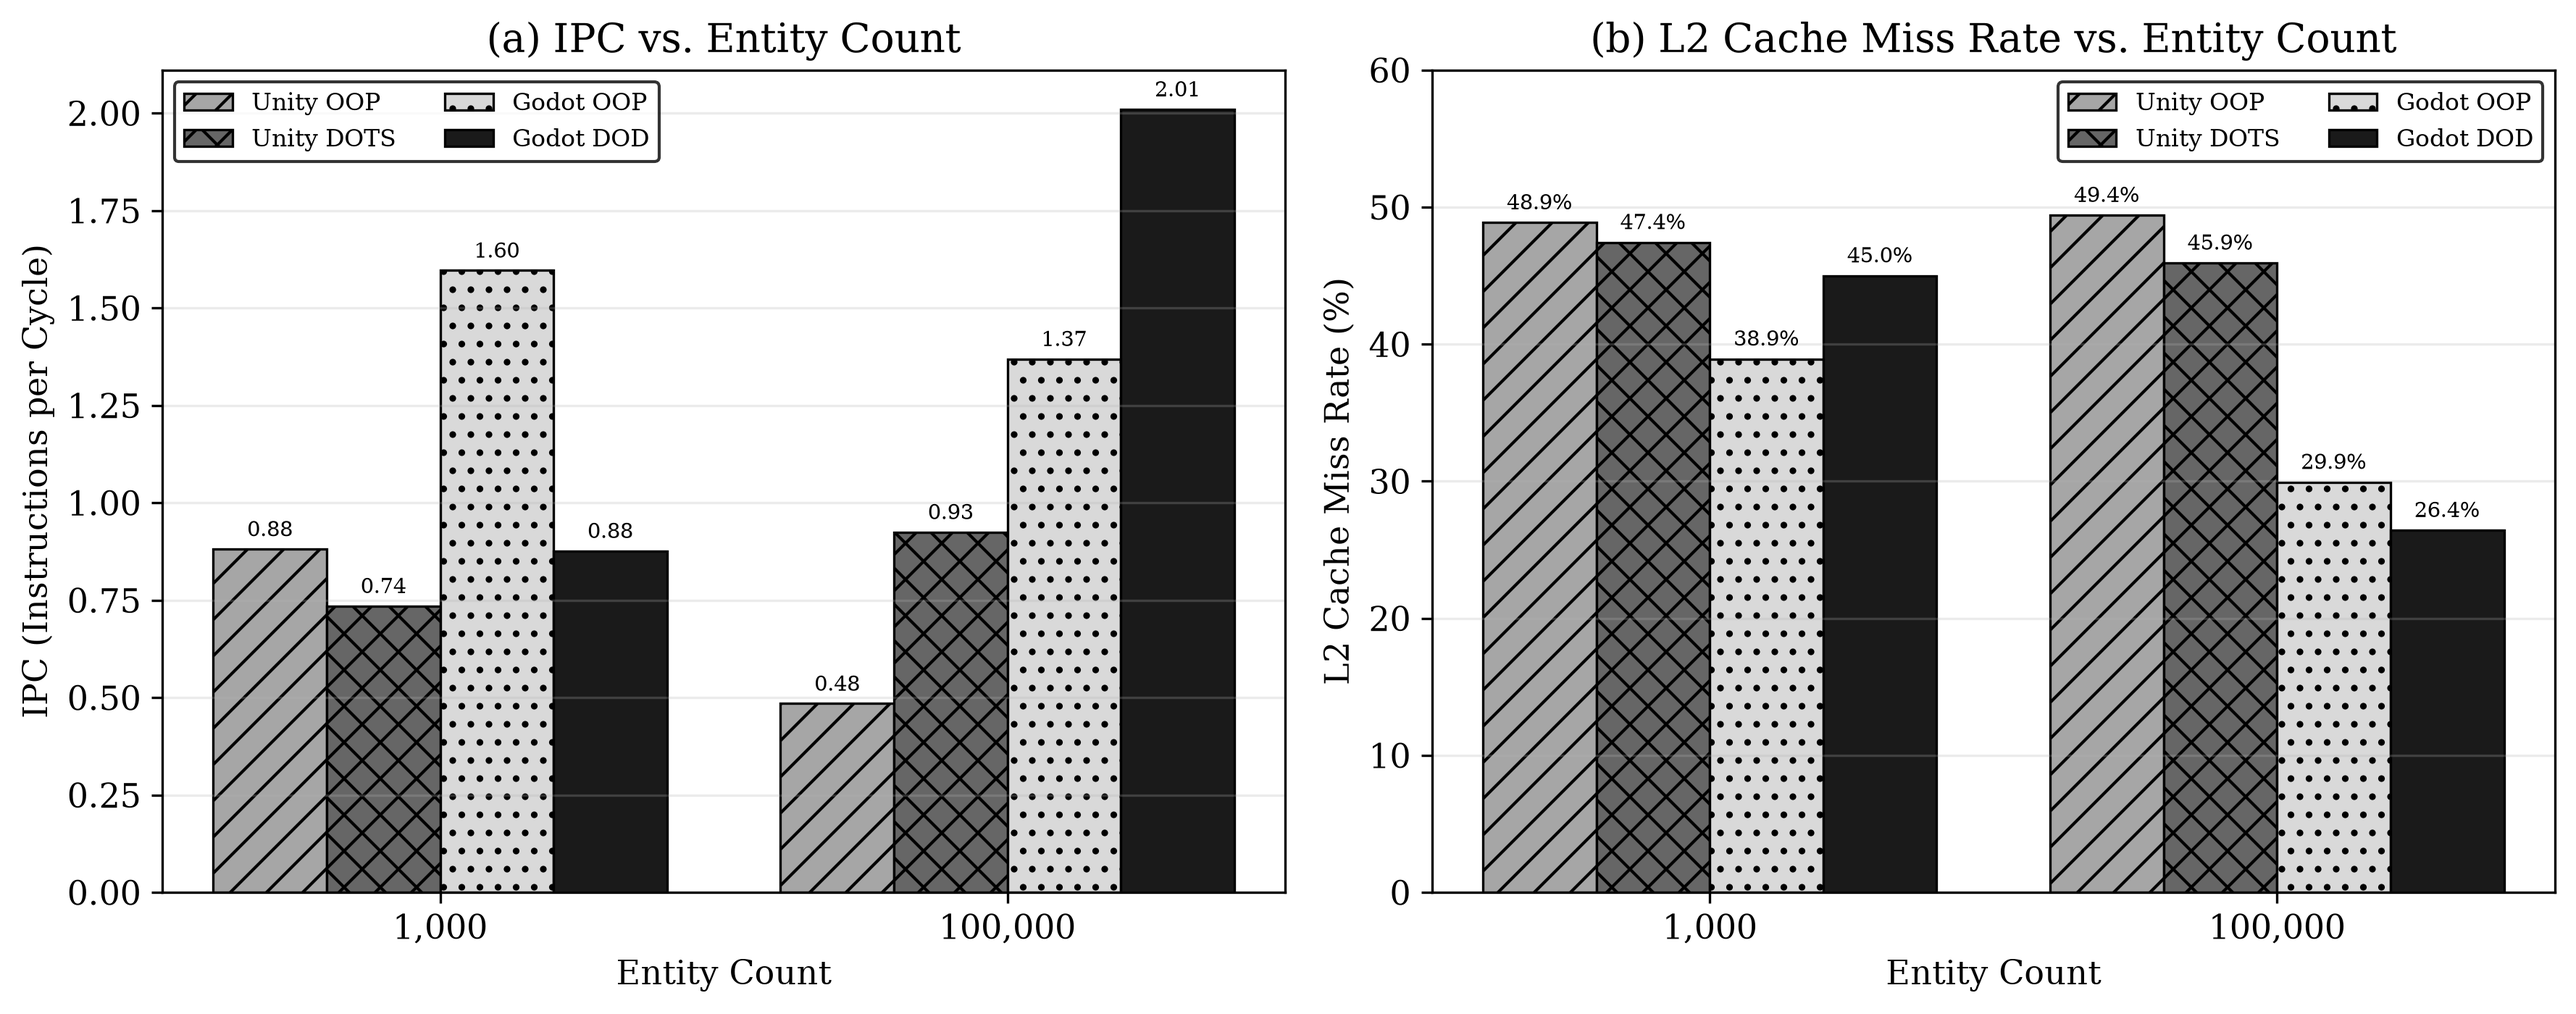
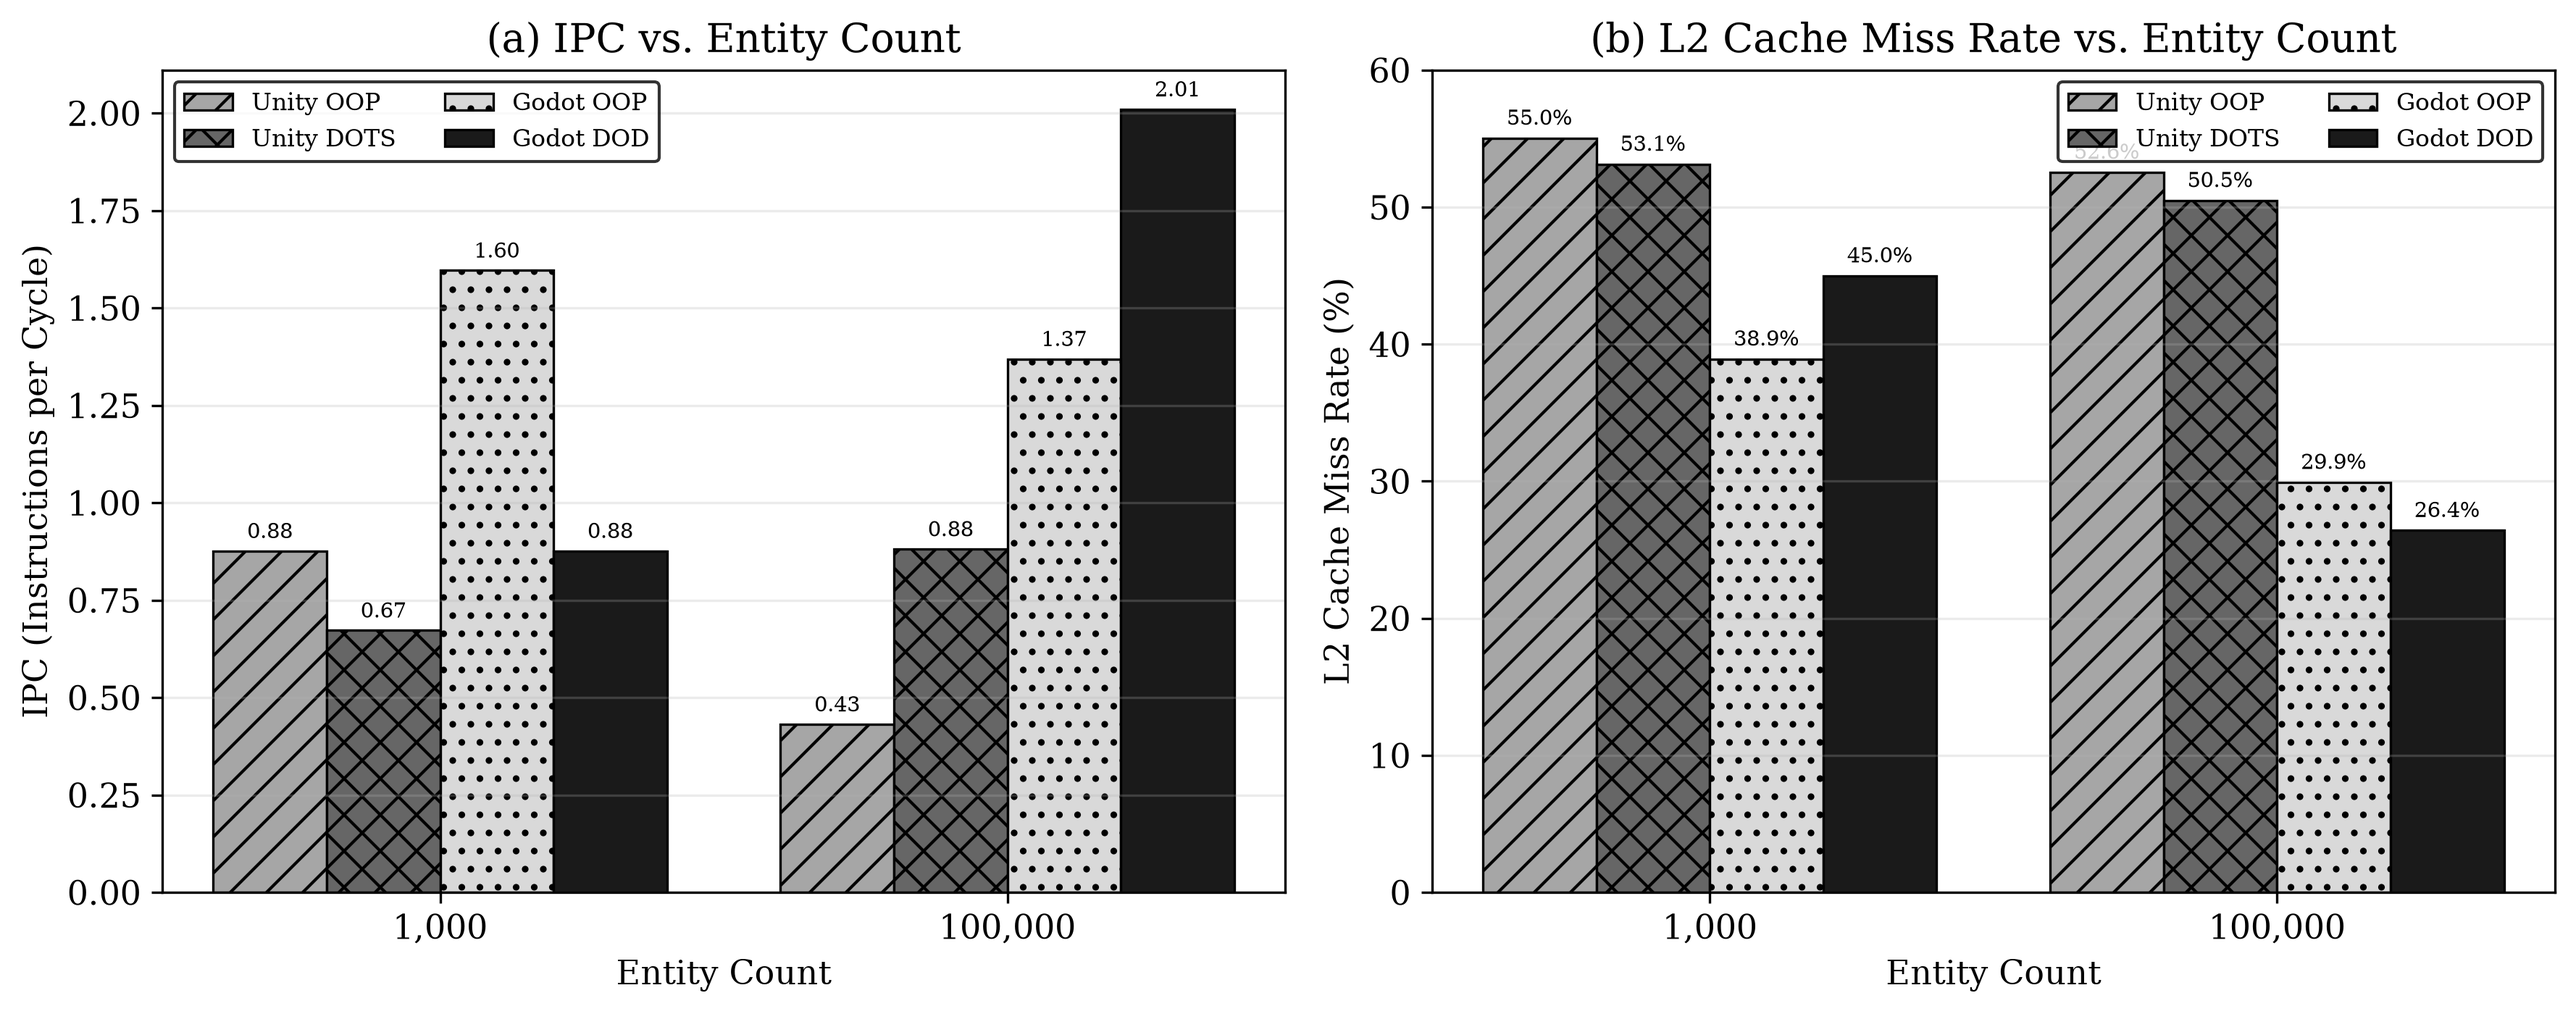
Re-measure Unity cache-miss sessions using Attach-to-Process, removing launch overhead
Replaces the original Unity OOP/DOTS uProf sessions (which included engine
startup time due to launch-based collection) with attach-based re-measurements
(AMDuProfCLI collect -p <PID>), so Unity results are now directly comparable
to Godot without startup-overhead distortion. Updates results table, figure,
and raw CSV accordingly.

Claude-Session: https://claude.ai/code/session_012BTzpM735GCUygYkiBMsKx

diff --git a/paper/MAKALE_NOTLARI.md b/paper/MAKALE_NOTLARI.md
@@ -250,7 +250,13 @@ gösterir.
 > başarıyla tamamlanmıştır (bkz. "Ölçüm Sonuçları"). `AMDuProfCLI.exe collect`
 > ile GUI'ye gerek kalmadan profil toplanmış, `AMDuProfCLI.exe report -i
 > <oturum>` ile "10 HOTTEST PROCESSES" bölümünden süreç-düzeyinde toplu
-> (aggregate) metrikler çıkarılmıştır.
+> (aggregate) metrikler çıkarılmıştır. Unity oturumları için motor başlatma
+> gecikmesini örneklemeden tamamen çıkarmak amacıyla `collect -p <PID>`
+> ("Attach to Process") yöntemi kullanılmıştır: uygulama önce uProf'suz
+> başlatılıp test ekranı gelene kadar beklenmiş, ardından zaten çalışan
+> process'e attach edilerek örnekleme başlatılmış ve hemen test çalıştırılmıştır
+> — böylece motor yükleme/başlatma süresi profile hiç karışmamıştır (Godot
+> zaten hızlı açıldığı için orijinal "launch" yöntemiyle ölçülmüştür).
 
 **Ölçüm Sonuçları (Gerçek Veri — AMD Ryzen 5 5600H, Zen3, AMD uProf 4.2):**
 
@@ -269,43 +275,53 @@ L2 Miss Rate = (LOCAL_CACHE + EXTERNAL_CACHE_LOCAL + LOCAL_DRAM)
 
 | İmplementasyon | N | IPC | L1 DC Miss Ratio | L2 Miss Rate |
 |---|---|---|---|---|
-| Unity OOP   | 1.000   | 0.881 | 5.47% | 48.87% |
-| Unity OOP   | 100.000 | 0.485 | 5.89% | 49.41% |
-| Unity DOTS  | 1.000   | 0.735 | 5.79% | 47.43% |
-| Unity DOTS  | 100.000 | 0.925 | 2.75% | 45.93% |
+| Unity OOP   | 1.000   | 0.876 | 5.66% | 55.04% |
+| Unity OOP   | 100.000 | 0.432 | 6.19% | 52.56% |
+| Unity DOTS  | 1.000   | 0.673 | 6.36% | 53.14% |
+| Unity DOTS  | 100.000 | 0.881 | 2.74% | 50.49% |
 | Godot OOP   | 1.000   | 1.596 | 2.42% | 38.93% |
 | Godot OOP   | 100.000 | 1.369 | 2.76% | 29.93% |
 | Godot DOD   | 1.000   | 0.877 | 4.86% | 45.00% |
 | Godot DOD   | 100.000 | 2.010 | 2.81% | 26.42% |
 
+(Unity satırları "Attach to Process" yöntemiyle ölçülmüştür — motor başlatma
+gecikmesi içermez; bkz. yukarıdaki not. Godot satırları orijinal "launch"
+yöntemiyle ölçülmüştür.)
+
 **Yorum:**
 - **Ölçekle birlikte değişim yönü, hipotezi destekliyor:** Her iki DOD/DOTS
   implementasyonu da N arttıkça IPC'de **iyileşme** ve L2 miss rate'te **düşüş**
-  gösteriyor (DOTS: IPC 0.735→0.925, L2 miss 47.4%→45.9%; Godot DOD: IPC
+  gösteriyor (Unity DOTS: IPC 0.673→0.881, L2 miss 53.1%→50.5%; Godot DOD: IPC
   0.877→2.010, L2 miss 45.0%→26.4%). Bu, SoA bellek düzeninin büyük N'de
   donanım prefetcher'ını daha verimli kullandığını doğrudan gösterir.
 - **Godot DOD @ 100K** tüm 8 oturumun en iyi sonucu: en yüksek IPC (2.01) ve
   en düşük L2 miss rate (%26.4) — DOD tezinin niceliksel kanıtı.
+- **Unity DOTS @ 100K, L1 miss ratio'da en güçlü iyileşmeyi gösteriyor**
+  (%6.36→%2.74, yani ~2.3x azalma) — gecikmeden arındırılmış ölçümde dahi DOD
+  hipotezi (ardışık bellek erişimi → daha az L1 miss) doğrulanıyor.
 - **Godot OOP'ta da L2 miss düşüşü var** (38.9%→29.9%) ama Godot DOD'dan daha
-  az; bu, Godot Node2D'lerin Unity GameObject'lerine göre nispeten daha derli
-  toplu bellek tahsisi yapmasıyla açıklanabilir — yine de AoS/SoA farkı IPC'de
-  açıkça görülüyor (Godot DOD 100K'da Godot OOP'tan ~%47 daha yüksek IPC).
-- **Unity OOP, N ile birlikte kötüleşiyor** (IPC 0.881→0.485, beklenen OOP
+  az; bu, Godot Node2D'lerin bellek tahsisinin Unity GameObject'lere göre
+  nispeten daha derli toplu olmasıyla açıklanabilir — yine de AoS/SoA farkı
+  IPC'de açıkça görülüyor (Godot DOD 100K'da Godot OOP'tan ~%47 daha yüksek IPC).
+- **Unity OOP, N ile birlikte kötüleşiyor** (IPC 0.876→0.432, beklenen OOP
   davranışı: dağınık heap adresleri arttıkça prefetcher verimsizleşiyor).
-  Ancak Unity sonuçları genel olarak daha gürültülü (bkz. aşağıdaki limitasyon
-  notu) — Unity DOTS'un 1K→100K IPC artışı beklenenden düşük kalmış olabilir.
+  Unity DOTS ise IPC'de iyileşme gösteriyor (0.673→0.881) — yön olarak Godot
+  DOD ile aynı eğilimde, ancak mutlak artış Godot DOD'dan daha mütevazı (Unity
+  motorunun render/yönetim ek yükü payı muhtemelen daha yüksek).
+- **L2 miss rate, Unity'de Godot'a göre genel olarak daha yüksek** (Unity
+  ~%50–55 vs Godot ~%27–45) — bu artık başlatma gecikmesinden değil, gerçek
+  workload farkından kaynaklanıyor (Unity'nin daha ağır motor altyapısı: ECS
+  chunk yönetimi, Burst job sistemi, render pipeline farklı bellek erişim
+  desenleri ekliyor).
 
-> **Bilinen limitasyon (kullanıcı tarafından doğrulandı):** Unity uygulamaları
-> açılışta birkaç saniye gecikme yaşıyor; `AMDuProfCLI.exe collect` exe'yi
-> başlattığı anda örneklemeye başladığından, her Unity oturumunun başında
-> kaçınılmaz bir "motor başlatma" (workload-dışı) süresi profile karışıyor.
-> Test, pencere göründüğü an başlatılmış ve bitişten 1-2 sn içinde profil
-> durdurulmuş olsa da, bu başlangıç gecikmesi — özellikle kısa 1K oturumlarında
-> — toplam örnekleme süresinin görece daha büyük bir kısmını oluşturuyor. Bu
-> durum **Unity↔Godot arası mutlak IPC/miss-rate karşılaştırmalarını** zayıflatabilir;
-> ancak aynı motor içindeki **OOP vs DOD/DOTS karşılaştırması** büyük ölçüde
-> geçerliliğini korur, çünkü her iki varyant da aynı motor başlatma yükünü
-> paylaşır. Makalede bu sınırlama açıkça belirtilmelidir.
+> **Not (gecikme sorunu çözüldü):** İlk ölçümlerde Unity oturumları
+> `AMDuProfCLI.exe collect <exe>` ile başlatılıyor ve örnekleme exe başlar
+> başlamaz devreye giriyordu; bu da motor başlatma süresinin profile
+> karışmasına yol açıyordu. Bu sürüm, `-p <PID>` ("Attach to Process") yöntemiyle
+> tekrarlanmıştır: uygulama önce bağımsız başlatılmış, test ekranı gelene kadar
+> beklenmiş, sonra zaten çalışan process'e attach edilip örnekleme başlatılmıştır.
+> Bu sayede yukarıdaki Unity satırları artık motor başlatma/yükleme süresinden
+> arındırılmıştır ve Godot ile **doğrudan karşılaştırılabilir** durumdadır.
 
 ### 4.7. Geçerlilik Tehditleri (Limitations)
 
